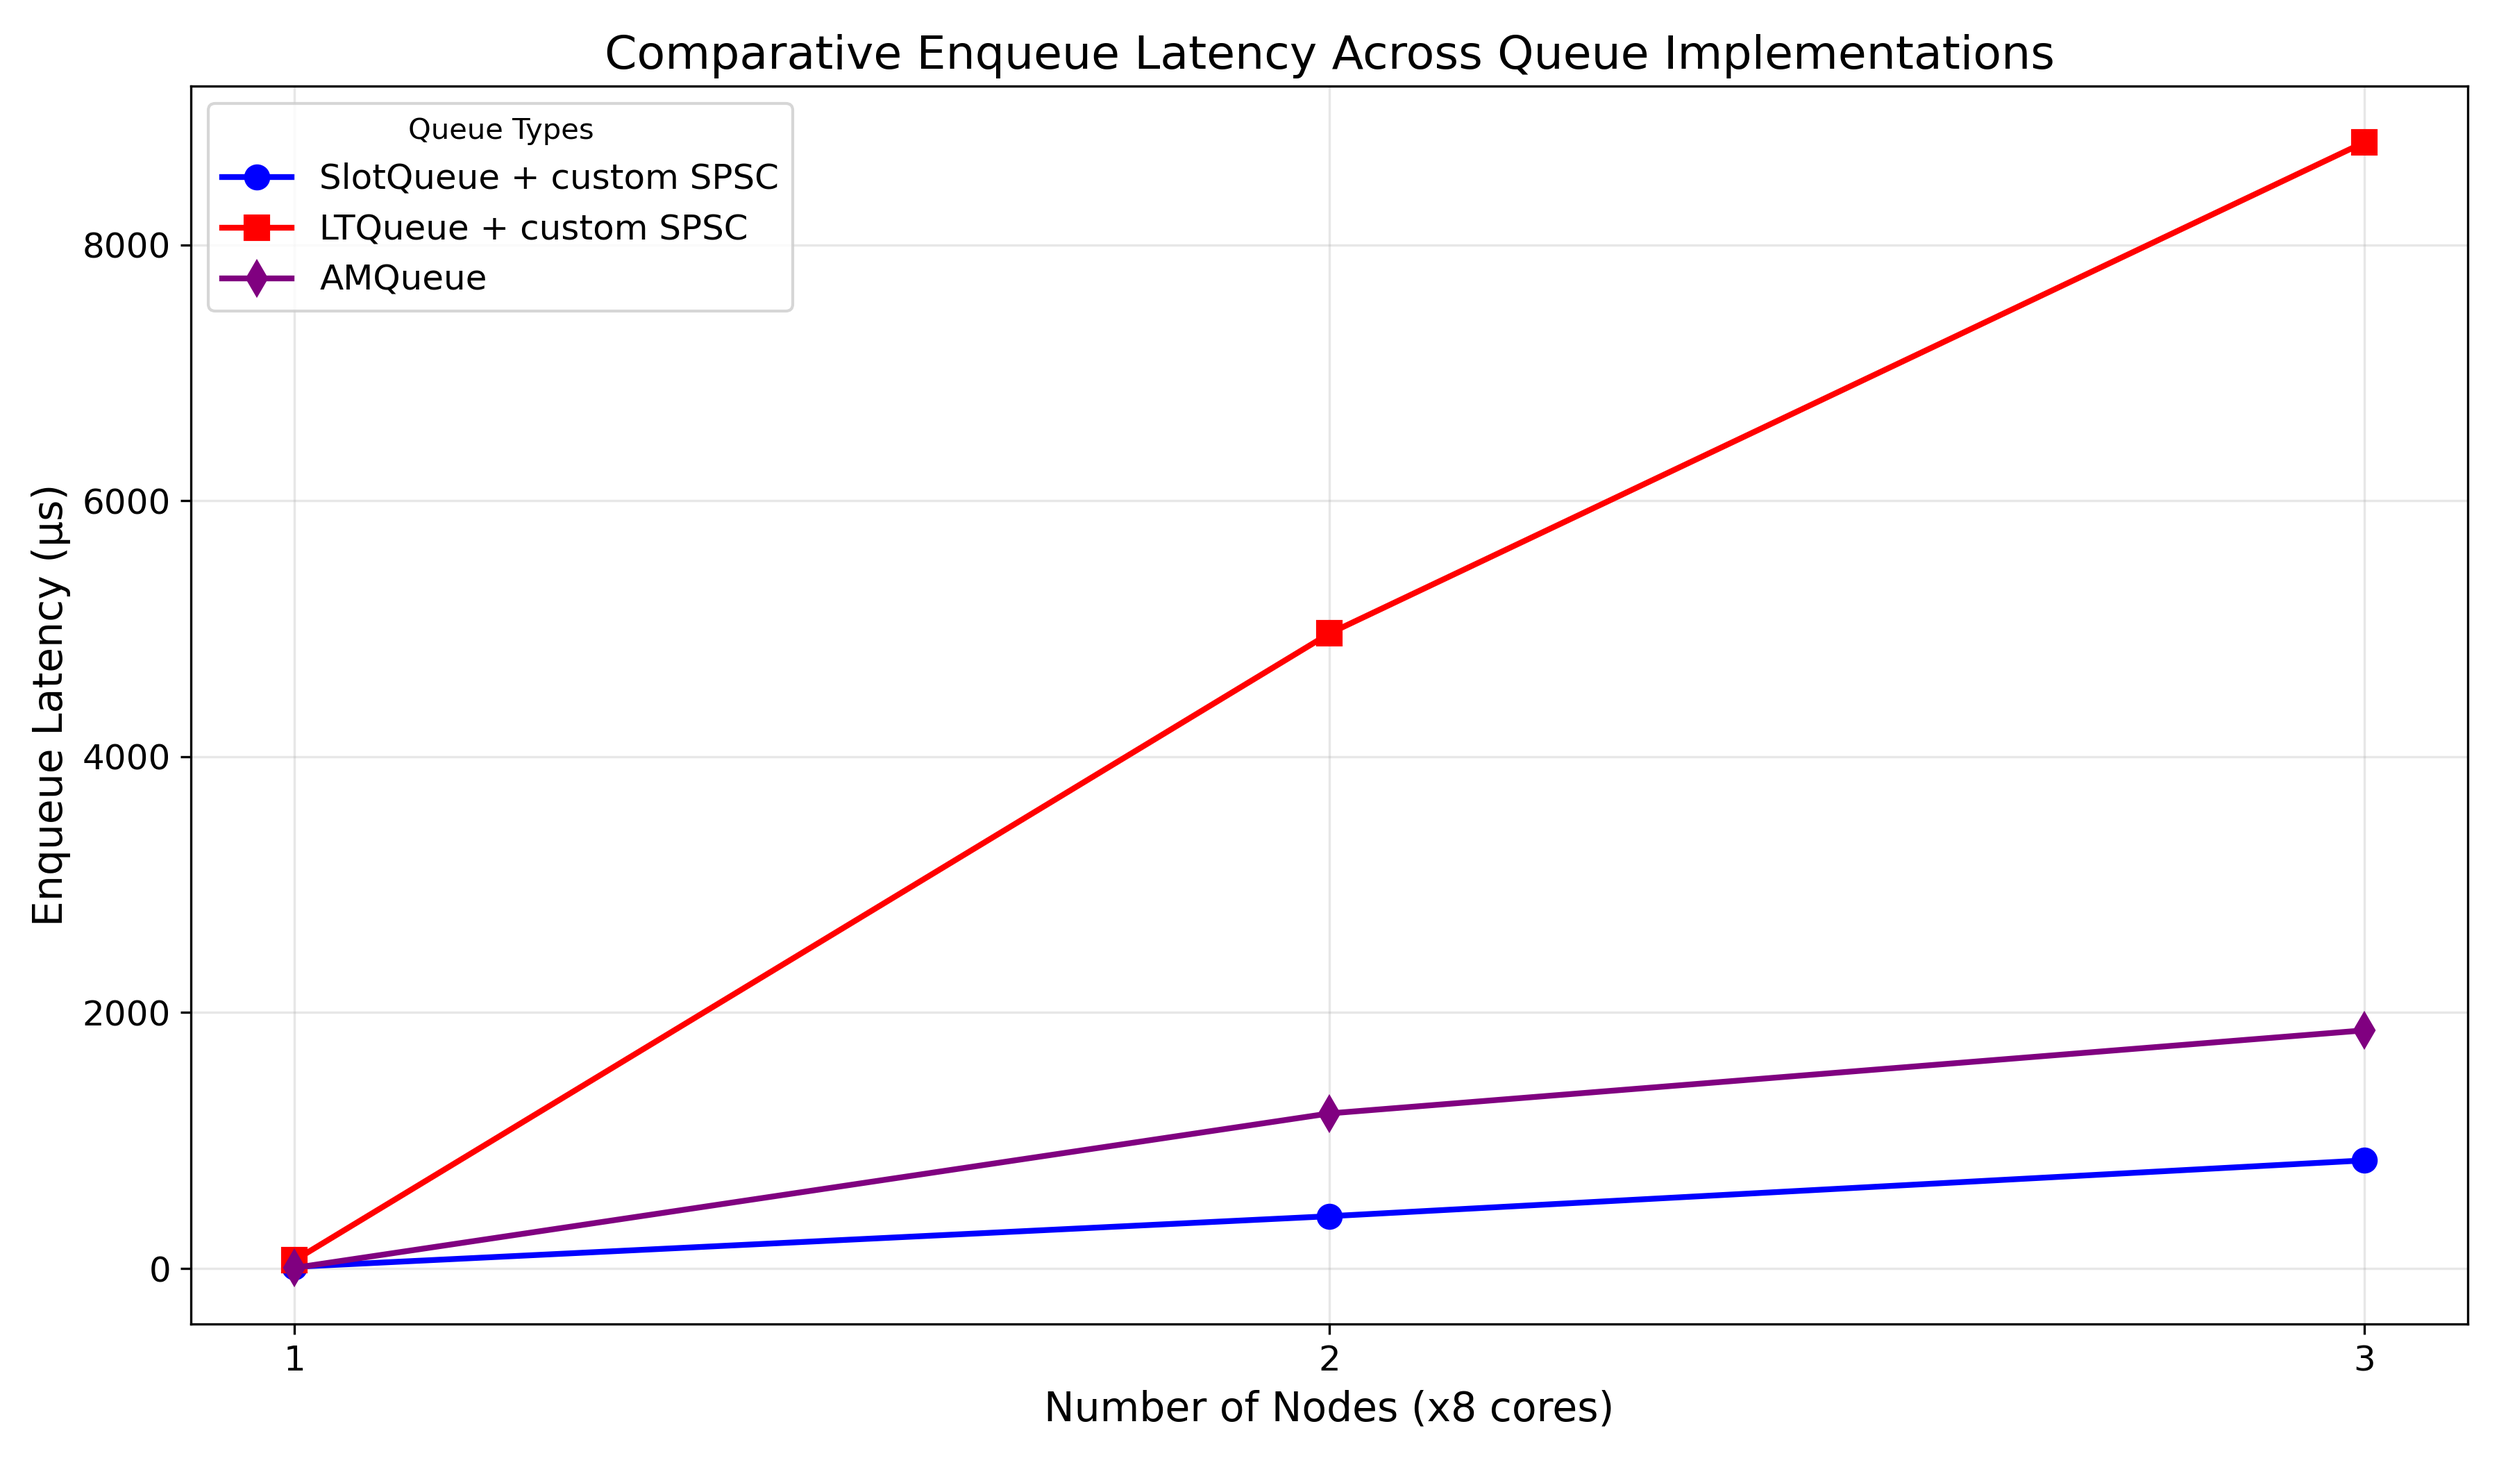
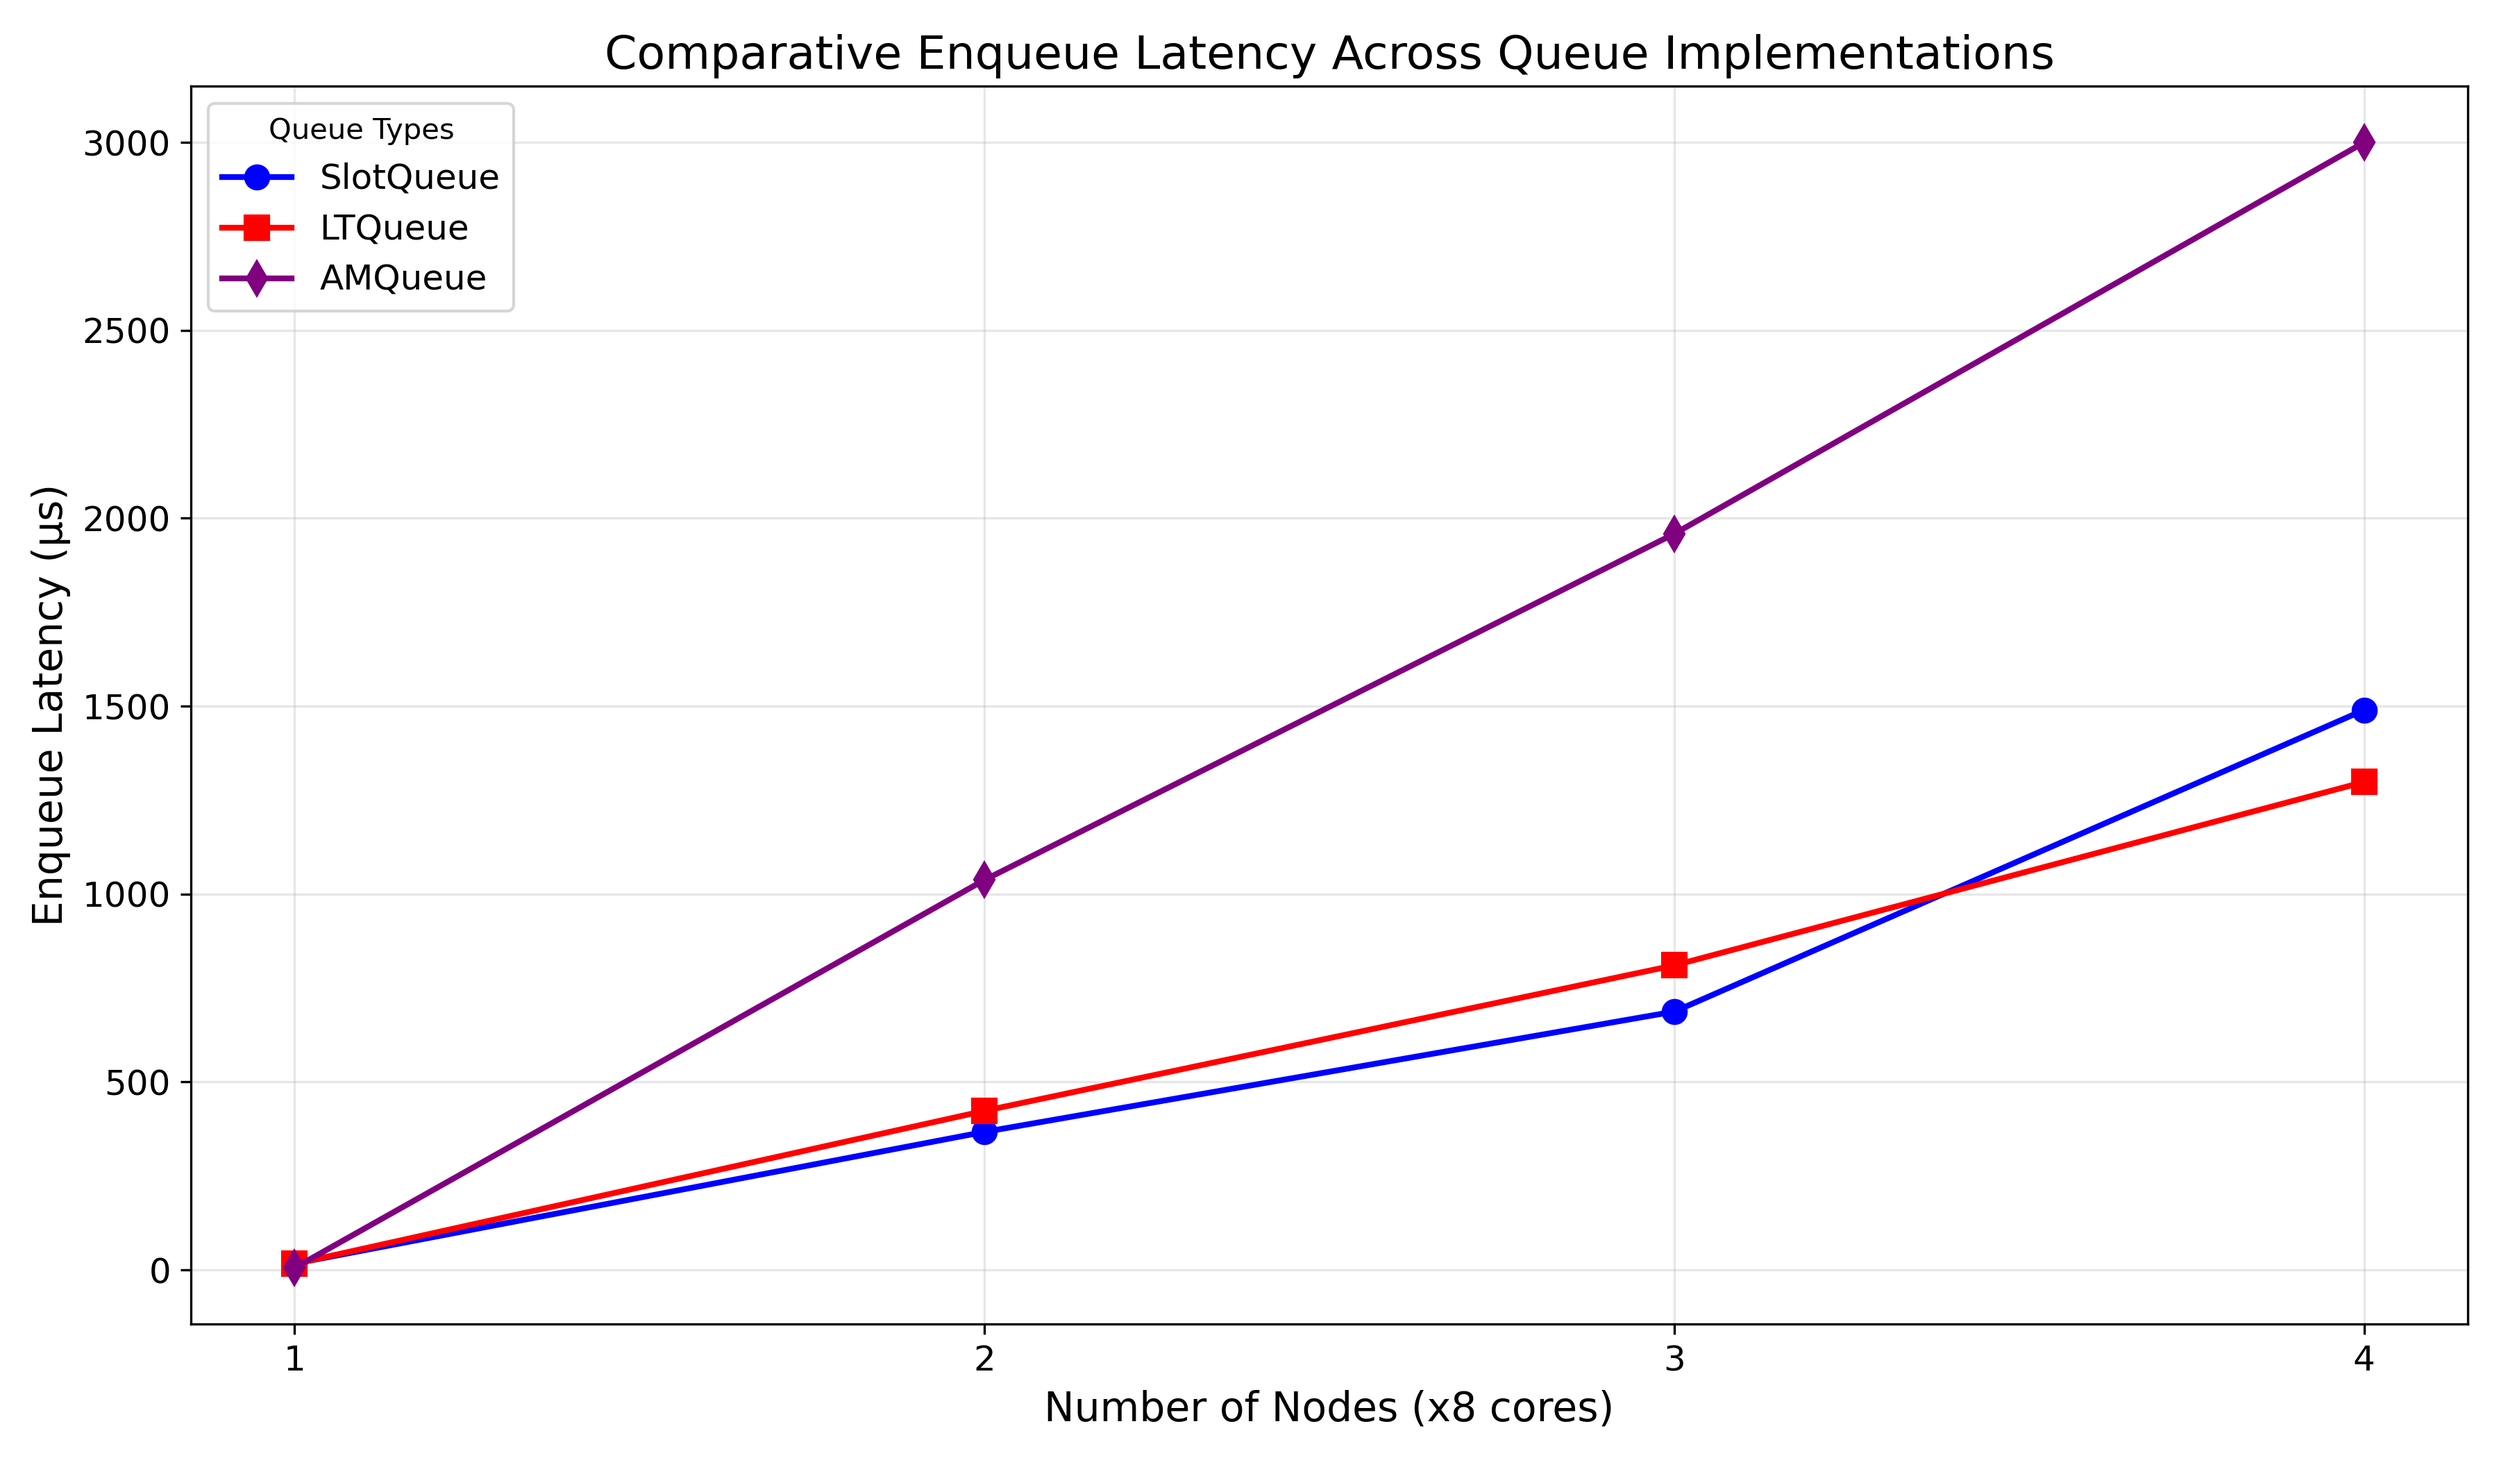
bench: add temporary viz

diff --git a/benches/microbenchmarks/single-one-queue/non-rdma-cluster/by-nodes.py b/benches/microbenchmarks/single-one-queue/non-rdma-cluster/by-nodes.py
@@ -1,39 +1,39 @@
 import matplotlib.pyplot as plt
 import os
 
-# Ensure the output directory exists
+
 output_dir = "non-rdma-cluster/all/by-nodes"
 os.makedirs(output_dir, exist_ok=True)
 
-# Data for nodes and queue types
-nodes = [1, 2, 3]
 
-# Data for different queues and metrics
+nodes = [1, 2, 3, 4]
+
+
 queue_data = {
-    "SlotQueue + custom SPSC": {
-        "dequeue_throughput": [2.20109, 0.135365, 0.125881],
-        "dequeue_latency": [4.5432, 73.8744, 79.4398],
-        "enqueue_throughput": [5.27636, 0.366896, 0.272167],
-        "enqueue_latency": [13.2667, 408.836, 845.069],
-        "total_throughput": [4.40438, 0.271407, 0.253274],
+    "SlotQueue": {
+        "dequeue_throughput": [2.28686, 0.145148, 0.13778, 0.0937151],
+        "dequeue_latency": [4.3728, 68.895, 72.5794, 106.706],
+        "enqueue_throughput": [4.12516, 0.408411, 0.334599, 0.208068],
+        "enqueue_latency": [16.969, 367.277, 687.389, 1489.9],
+        "total_throughput": [4.57602, 0.291023, 0.277214, 0.189586],
     },
-    "LTQueue + custom SPSC": {
-        "dequeue_throughput": [0.526565, 0.00716466, 0.00532755],
-        "dequeue_latency": [18.991, 1395.74, 1877.03],
-        "enqueue_throughput": [1.09137, 0.0302231, 0.0261331],
-        "enqueue_latency": [64.1395, 4963.1, 8801.12],
-        "total_throughput": [1.05366, 0.0143651, 0.010719],
+    "LTQueue": {
+        "dequeue_throughput": [0.896732, 0.00953929, 0.00651412, 0.00442806],
+        "dequeue_latency": [11.1516, 1048.3, 1535.13, 2248.52],
+        "enqueue_throughput": [4.33988, 0.354412, 0.283816, 0.22764],
+        "enqueue_latency": [16.1295, 423.237, 810.385, 1298.31],
+        "total_throughput": [1.79436, 0.0191263, 0.0131064, 0.00898238],
     },
     "AMQueue": {
-        "dequeue_throughput": [13.5767, 0.0660331, 0.0895714],
-        "dequeue_latency": [0.736558, 151.439, 111.643],
-        "enqueue_throughput": [13.3691, 0.123752, 0.123568],
-        "enqueue_latency": [5.23596, 1212.1, 1861.32],
-        "total_throughput": [24.4934, 0.124142, 0.163123],
+        "dequeue_throughput": [11.0004, 0.076829, 0.0851223, 0.079559],
+        "dequeue_latency": [0.909055, 130.159, 117.478, 120.7575],
+        "enqueue_throughput": [12.6034, 0.14456, 0.117427, 0.0801075],
+        "enqueue_latency": [5.55405, 1037.63, 1958.67, 3000.0],
+        "total_throughput": [20.3126, 0.143949, 0.155033, 0.186766],
     },
 }
 
-# Metrics to plot
+
 metrics = [
     "dequeue_throughput",
     "dequeue_latency",
@@ -42,7 +42,7 @@ metrics = [
     "total_throughput",
 ]
 
-# Metric labels and units
+
 metric_labels = {
     "dequeue_throughput": ("Dequeue Throughput", "10^5 ops/s"),
     "dequeue_latency": ("Dequeue Latency", "μs"),
@@ -51,19 +51,17 @@ metric_labels = {
     "total_throughput": ("Total Throughput", "10^5 ops/s"),
 }
 
-# Color and marker styles for each queue
+
 queue_styles = {
-    "SlotQueue + custom SPSC": {"color": "blue", "marker": "o"},
-    "LTQueue + custom SPSC": {"color": "red", "marker": "s"},
+    "SlotQueue": {"color": "blue", "marker": "o"},
+    "LTQueue": {"color": "red", "marker": "s"},
     "AMQueue": {"color": "purple", "marker": "d"},
 }
 
-# Generate merged plots for each metric
+
 for metric in metrics:
-    # Create a new figure for each metric
     plt.figure(figsize=(12, 7))
 
-    # Plot data for each queue
     for queue_name, queue_metrics in queue_data.items():
         style = queue_styles[queue_name]
         plt.plot(
@@ -77,80 +75,23 @@ for metric in metrics:
             markersize=8,
         )
 
-    # Set title and labels
     title, unit = metric_labels[metric]
     plt.title(f"Comparative {title} Across Queue Implementations", fontsize=16)
     plt.xlabel("Number of Nodes (x8 cores)", fontsize=14)
     plt.ylabel(f"{title} ({unit})", fontsize=14)
 
-    # Add grid and legend
     plt.grid(True, alpha=0.3)
     plt.legend(title="Queue Types", loc="best", fontsize=12)
 
-    # Set x-axis to use only integer values
     plt.xticks(nodes, [str(int(node)) for node in nodes], fontsize=12)
     plt.yticks(fontsize=12)
 
-    # Add a tight layout to make better use of space
     plt.tight_layout()
 
-    # Save the plot
     filename = f"{output_dir}/{metric}_comparison.png"
     plt.savefig(filename, dpi=300)
-    plt.close()  # Close the figure to free up memory
+    plt.close()
 
 print(
     "All comparative plots have been generated in the 'non-rdma-cluster/all/by-nodes' folder."
-)
-
-# Generate separate plots for each metric excluding LTQueue (which has much worse performance)
-output_dir = "non-rdma-cluster/no-ltqueue/by-nodes"
-os.makedirs(output_dir, exist_ok=True)
-
-for metric in metrics:
-    # Create a new figure for each metric
-    plt.figure(figsize=(12, 7))
-
-    # Plot data for each queue
-    for queue_name, queue_metrics in queue_data.items():
-        if queue_name != "LTQueue + custom SPSC":  # Exclude LTQueue for this set of plots
-            style = queue_styles[queue_name]
-            plt.plot(
-                nodes,
-                queue_metrics[metric],
-                color=style["color"],
-                marker=style["marker"],
-                linestyle="-",
-                label=queue_name,
-                linewidth=2,
-                markersize=8,
-            )
-
-    # Set title and labels
-    title, unit = metric_labels[metric]
-    plt.title(
-        f"Comparative {title} Across Queue Implementations (Excluding LTQueue)",
-        fontsize=16,
-    )
-    plt.xlabel("Number of Nodes (x8 cores)", fontsize=14)
-    plt.ylabel(f"{title} ({unit})", fontsize=14)
-
-    # Add grid and legend
-    plt.grid(True, alpha=0.3)
-    plt.legend(title="Queue Types", loc="best", fontsize=12)
-
-    # Set x-axis to use only integer values
-    plt.xticks(nodes, [str(int(node)) for node in nodes], fontsize=12)
-    plt.yticks(fontsize=12)
-
-    # Add a tight layout to make better use of space
-    plt.tight_layout()
-
-    # Save the plot
-    filename = f"{output_dir}/{metric}_comparison.png"
-    plt.savefig(filename, dpi=300)
-    plt.close()  # Close the figure to free up memory
-
-print(
-    "All comparative plots have been generated in the 'non-rdma-cluster/no-ltqueue/by-nodes' folder."
 )
